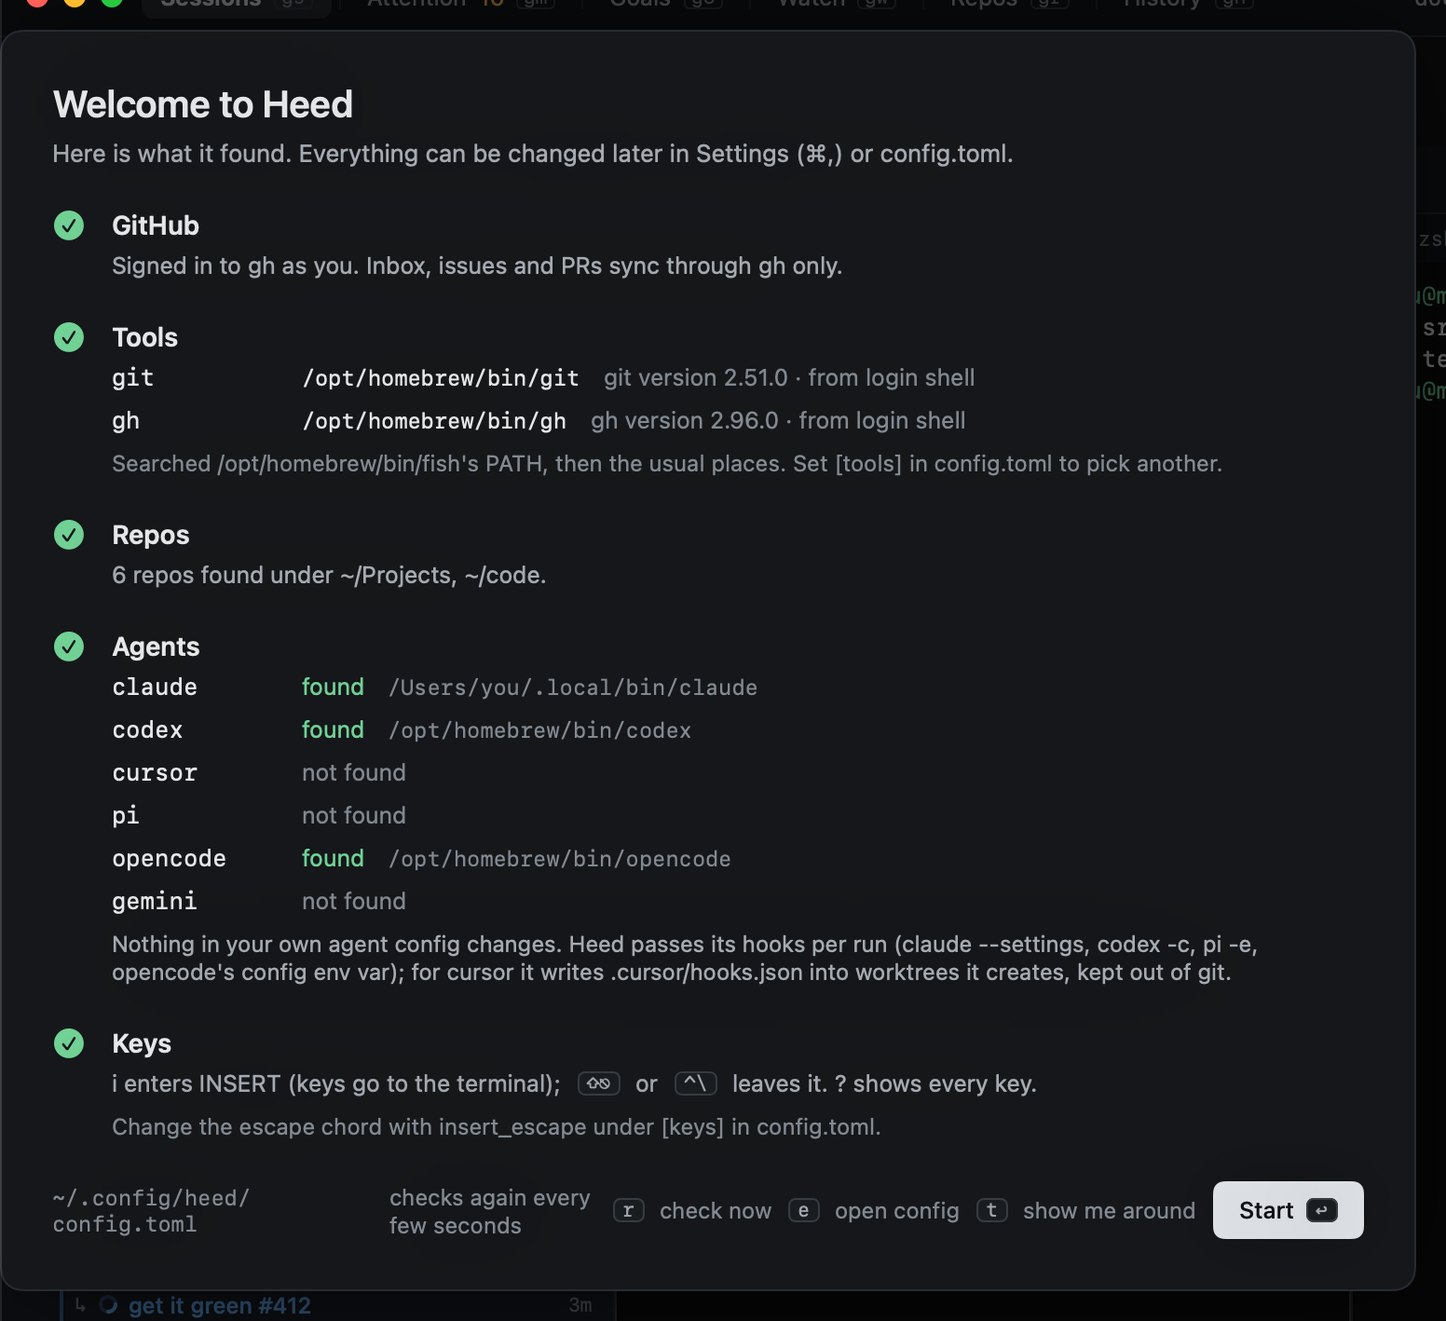
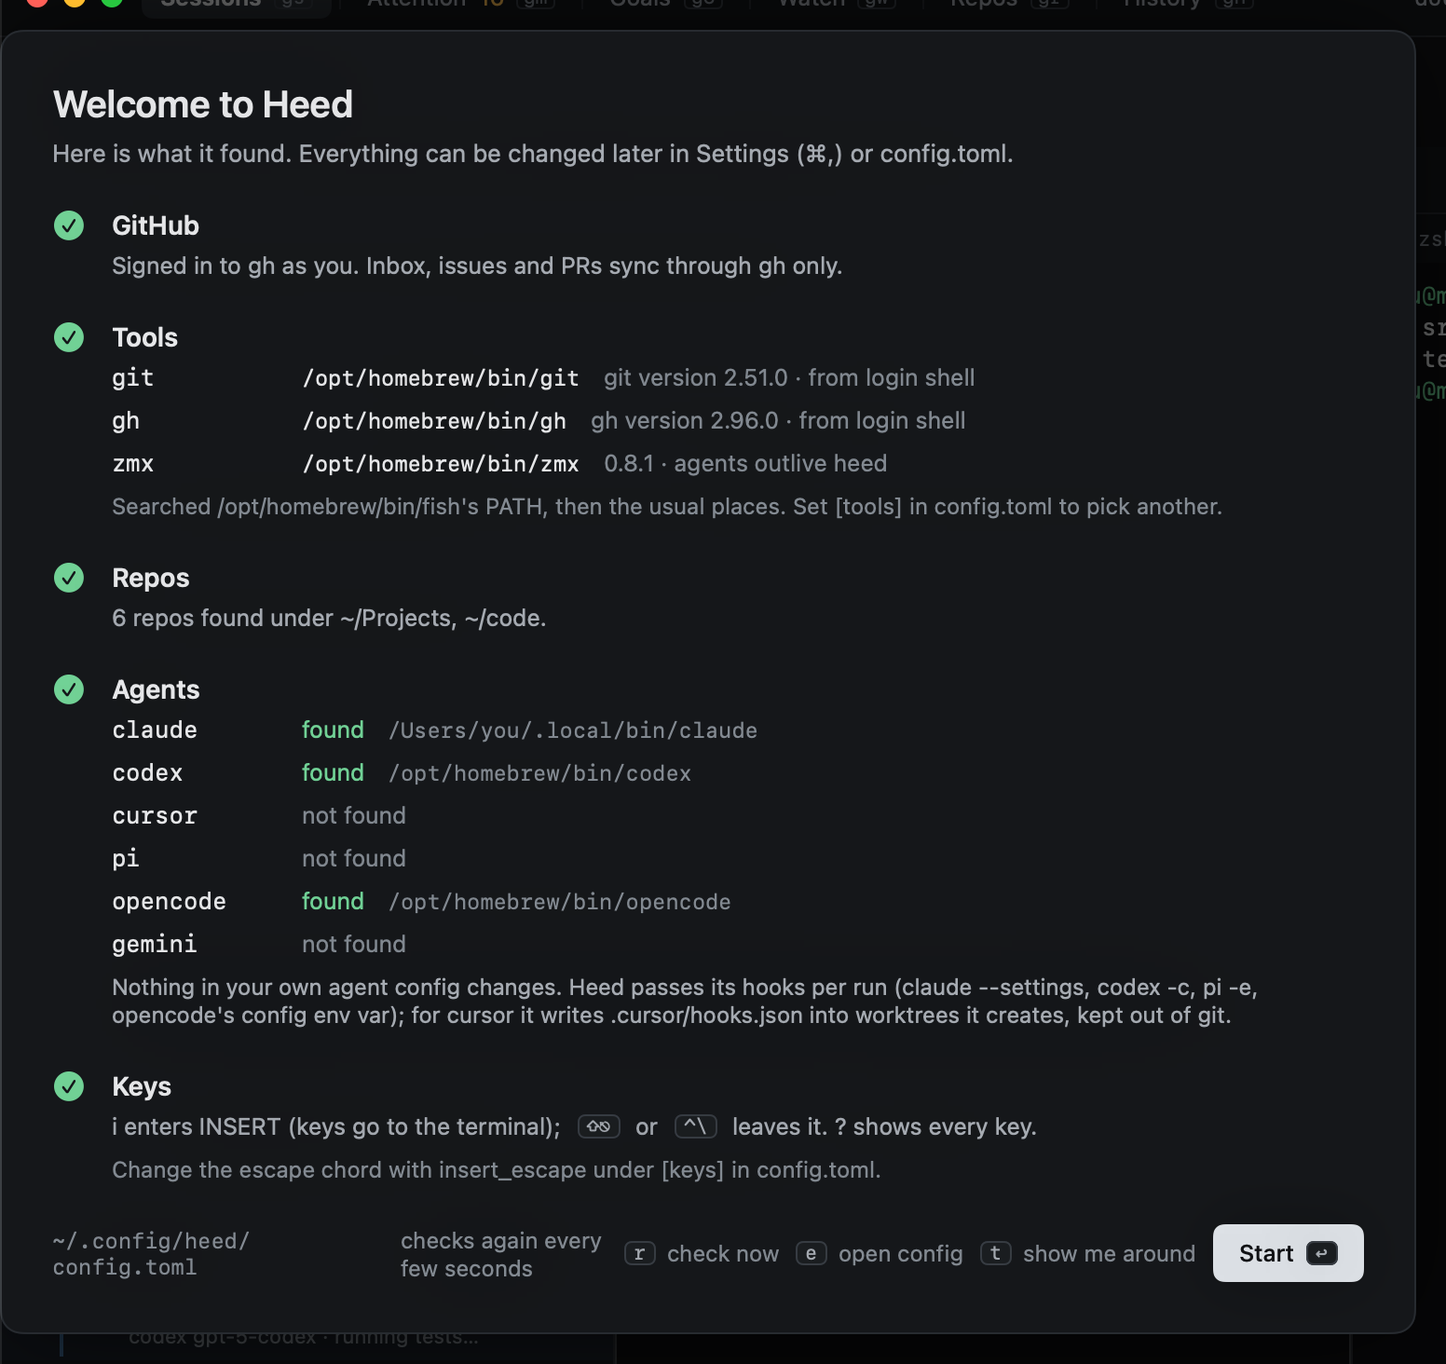
Fix papercuts found auditing the views (#226)
An audit of every view turned up small bugs and unfinished corners. This
fixes the ones that are plainly wrong; keys typed by hand in views
follow in a separate PR, and the overlap between views (Inbox, Issues,
Away, Map, the Goals overview) is a design question first.

## Fixed
- **Settings › Keys** said "Default: off" for both global shortcuts;
they default to ⌃⌥Space and ⌃⌥H. The default text now comes from
`HeedConfig.default`.
- **Watch**: the empty merge queue said "M on a PR adds it"; M is not
bound there. It names `pilot.merge`'s key (`zm`).
- **What's new**: the "Don't show what's new" switch was bound to a
constant `false`. It shows whether what's new is off, and flipping it
back turns it on.
- **Resume**: "1 sessions were open" → "1 session was open".
- **History**: the outcome chips looked like buttons and did nothing. A
click filters; `history.outcome` takes an outcome by name (`all`,
`merged`, `cleaned up`…), worked out in `Outcome.filter` with tests.
- **First run**: Start and the r / e / t labels take clicks, as every
other dialog's do. The Tools step lists zmx, marked optional.
- **Mindmap**: past four children the preview cut off and drew the
fourth as the last (`└`); it now ends with "└ N more".
- **Standup**, when off, links to its switch in Settings › History.
**Evaluations**, when empty, says how a walk starts and offers
`eval.rewalk`.
- **Call log**: `compact` was passed and never read; the caller column
[…]

diff --git a/Sources/HeedApp/Views/FirstRunView.swift b/Sources/HeedApp/Views/FirstRunView.swift
@@ -40,7 +40,7 @@ struct FirstRunView: View {
                 }
             }
             step("Tools", done: report.tools.map { $0.tools.allSatisfy { $0.path != nil } } ?? false) {
-                ToolsList(report: report.tools)
+                ToolsList(report: report.tools, zmx: model.zmxHealth)
             }
             step("Repos", done: !model.repos.isEmpty) {
                 Text(model.repos.isEmpty
@@ -94,12 +94,10 @@ struct FirstRunView: View {
                 Text(model.firstRunChecking ? "checking…" : "checks again every few seconds")
                     .font(Theme.ui(12))
                     .foregroundStyle(Theme.fg3)
-                KeyCap(text: "r")
-                Text("check now").font(Theme.ui(12)).foregroundStyle(Theme.fg3)
-                KeyCap(text: "e")
-                Text("open config").font(Theme.ui(12)).foregroundStyle(Theme.fg3)
-                KeyCap(text: "t")
-                Text("show me around").font(Theme.ui(12)).foregroundStyle(Theme.fg3)
+                // The dialog's own keys (not the keymap's); a click on one presses it.
+                action("r", "check now", help: "Check git, gh and the agents again")
+                action("e", "open config", help: "Open config.toml")
+                action("t", "show me around", help: "Start the tour")
                 HStack(spacing: 6) {
                     Text("Start").fontWeight(.medium)
                     KeyCap(text: "↩")
@@ -108,6 +106,10 @@ struct FirstRunView: View {
                 .padding(.horizontal, 14)
                 .padding(.vertical, 8)
                 .background(RoundedRectangle(cornerRadius: 6).fill(Theme.inverse))
+                .contentShape(Rectangle())
+                .onTapGesture { model.press([KeyStroke("CR")]) }
+                .pointerStyle(.link)
+                .help("Close this and start")
             }
             .font(Theme.ui(12.5))
         }
@@ -115,6 +117,16 @@ struct FirstRunView: View {
         .background(RoundedRectangle(cornerRadius: 12).fill(Theme.bg2))
         .overlay(RoundedRectangle(cornerRadius: 12).strokeBorder(Theme.line))
         .shadow(color: .black.opacity(0.5), radius: 30)
+    }
+
+    private func action(_ key: String, _ label: String, help: String) -> some View {
+        HStack(spacing: 6) {
+            KeyCap(text: key)
+            Text(label).font(Theme.ui(12)).foregroundStyle(Theme.fg3)
+        }
+        .clickable()
+        .onTapGesture { model.press([KeyStroke(key)]) }
+        .help(help)
     }
 
     private func step(_ title: String, done: Bool, @ViewBuilder content: () -> some View) -> some View {
@@ -133,6 +145,8 @@ struct FirstRunView: View {
 /// git and gh as detected: where, which version and why that one; shared by the first run and Settings.
 struct ToolsList: View {
     let report: ToolReport?
+    /// zmx as checked, for First run: optional, so missing it is no problem, only a pointer to what it adds.
+    var zmx: ZmxHealth??
 
     var body: some View {
         VStack(alignment: .leading, spacing: 8) {
@@ -156,6 +170,7 @@ struct ToolsList: View {
                             .fixedSize(horizontal: false, vertical: true)
                     }
                 }
+                if let zmx { zmxRow(zmx) }
                 Text(report.shellPath == nil
                     ? "\(Paths.abbreviate(report.shell)) did not report its PATH; searched the usual places instead."
                     :
@@ -167,5 +182,25 @@ struct ToolsList: View {
                 Text("Looking for git and gh…").foregroundStyle(Theme.fg3)
             }
         }
+    }
+
+    private func zmxRow(_ health: ZmxHealth?) -> some View {
+        HStack(spacing: 12) {
+            Text("zmx").font(Theme.mono(12.5)).frame(width: 90, alignment: .leading)
+            if let health, let path = health.path {
+                Text(Paths.abbreviate(path)).font(Theme.mono(11.5))
+                Text(health.works ? [health.version, "agents outlive heed"].compactMap(\.self).joined(separator: " · ")
+                    : health.problem ?? "does not work")
+                    .foregroundStyle(health.works ? Theme.fg3 : Theme.block)
+                    .lineLimit(1)
+            } else if health == nil {
+                Text("checking…").foregroundStyle(Theme.fg3)
+            } else {
+                Text("not found").foregroundStyle(Theme.fg3)
+                Text("optional: with it, agents keep running when heed quits").foregroundStyle(Theme.fg3)
+                    .lineLimit(1)
+            }
+        }
+        .font(Theme.ui(12.5))
     }
 }

diff --git a/Sources/HeedApp/Views/CallLogView.swift b/Sources/HeedApp/Views/CallLogView.swift
@@ -146,8 +146,11 @@ private struct CallRow: View {
                 .foregroundStyle(Theme.fg3)
                 .frame(width: 64, alignment: .leading)
             KindTag(call: call).frame(width: 58, alignment: .leading)
-            Text(call.caller).foregroundStyle(Theme.fg2).lineLimit(1).truncationMode(.tail)
-                .frame(width: 150, alignment: .leading)
+            // Narrow: the caller gives way, it is in the detail and `log.caller` filters on it.
+            if !compact {
+                Text(call.caller).foregroundStyle(Theme.fg2).lineLimit(1).truncationMode(.tail)
+                    .frame(width: 150, alignment: .leading)
+            }
             HStack(spacing: 6) {
                 if let host = call.host { HostChip(location: .host(host)).fixedSize() }
                 Text(CallLine.summary(call)).foregroundStyle(Theme.fg).lineLimit(1).truncationMode(.middle)
@@ -174,7 +177,7 @@ private struct KindTag: View {
     var body: some View {
         HStack(spacing: 3) {
             Text(call.kind.rawValue).foregroundStyle(color)
-            if call.write { Text("w").foregroundStyle(Theme.block) }
+            if call.write { Text("w").foregroundStyle(Theme.block).help("A write: it changed something on GitHub") }
         }
         .font(Theme.mono(11))
     }
@@ -229,12 +232,18 @@ private struct CallDetail: View {
                 if let host = call.host { HostChip(location: .host(host)) }
             }
             Text(call.operation ?? call.caller).font(Theme.ui(16, weight: .semibold))
-            block(call.command, tint: Theme.fg)
-            fields
-            if let stderr = call.stderr { output("stderr", stderr) }
-            if let stdout = call.stdout { output("stdout", stdout) }
-            ForEach(call.detail.sorted { $0.key < $1.key }, id: \.key) { key, value in
-                output(key, value)
+            // Long output scrolls; the keys below stay put.
+            ListScroll {
+                VStack(alignment: .leading, spacing: 14) {
+                    block(call.command, tint: Theme.fg)
+                    fields
+                    if let stderr = call.stderr { output("stderr", stderr) }
+                    if let stdout = call.stdout { output("stdout", stdout) }
+                    ForEach(call.detail.sorted { $0.key < $1.key }, id: \.key) { key, value in
+                        output(key, value)
+                    }
+                }
+                .frame(maxWidth: .infinity, alignment: .leading)
             }
             Spacer(minLength: 0)
             Theme.line.frame(height: 1)

diff --git a/Sources/HeedApp/Views/GoalReviewersView.swift b/Sources/HeedApp/Views/GoalReviewersView.swift
@@ -18,7 +18,7 @@ struct GoalReviewersPane: View {
                     ReviewerDetail(goal: goal, reviewer: reviewer, quality: quality)
                 } else {
                     Panel(title: "No reviewers yet", note: "") {
-                        Quieter("heed spawns one per lens the goal's profile requires once a model has read its "
+                        Quiet("heed spawns one per lens the goal's profile requires once a model has read its "
                             + "GOAL.md. Spawn one yourself on the right.")
                     }
                 }
@@ -175,7 +175,7 @@ private struct ReviewerDetail: View {
             }
             SectionHeader(title: "Objections")
             if objections.isEmpty {
-                Quieter(reviewer.score == nil ? "Nothing yet: it has not reviewed." : "None. It is happy.")
+                Quiet(reviewer.score == nil ? "Nothing yet: it has not reviewed." : "None. It is happy.")
             }
             VStack(spacing: 0) {
                 ForEach(Array(objections.enumerated()), id: \.element.id) { index, objection in
@@ -441,7 +441,7 @@ struct QualityBars: View {
     var body: some View {
         Panel(title: "Quality bars", note: quality.profile?.profile.text ?? "profile not decided yet") {
             if quality.lenses.isEmpty {
-                Quieter("No lens required yet.")
+                Quiet("No lens required yet.")
             }
             ForEach(quality.lenses, id: \.lens) { lens in
                 HStack(spacing: 10) {
@@ -499,7 +499,7 @@ struct HowHappy: View {
         let quality = model.goals.qualities[goal.id] ?? .empty
         Panel(title: "How happy are they", note: quality.live.isEmpty ? "" : "\(quality.live.count)") {
             if quality.live.isEmpty {
-                Quieter("No reviewers yet: they come with the goal's profile.")
+                Quiet("No reviewers yet: they come with the goal's profile.")
             }
             VStack(spacing: 8) {
                 ForEach(quality.live) { reviewer in
@@ -518,15 +518,5 @@ struct HowHappy: View {
                 KeyHint("review.recheck", scope: "goals", label: "re-check all")
             }
         }
-    }
-}
-
-private struct Quieter: View {
-    let text: String
-
-    init(_ text: String) { self.text = text }
-
-    var body: some View {
-        Text(text).font(Theme.ui(12)).foregroundStyle(Theme.fg3).fixedSize(horizontal: false, vertical: true)
     }
 }

diff --git a/Sources/HeedApp/Model/AppModel.swift b/Sources/HeedApp/Model/AppModel.swift
@@ -136,6 +136,8 @@ final class AppModel {
     var inferenceReminderHidden = false
     /// Screenshots show the setup reminder only where a shot asks for it.
     var inferenceReminderInShots = false
+    /// Swarm tasks a shot crops to, by slug: the shot says which, so views never name fixture data.
+    var shotTaskRegions: [String: ShotRegion] = [:]
     /// heed's own nudges (AppModel+Nudges): the one shown, the title bar pill hidden for this launch, what's new put
     /// off with Not now, and config.toml written this launch.
     var nudge: NudgeDialog?
@@ -2842,7 +2844,7 @@ final class AppModel {
         case "history.reopen": reopenSelected()
         case "history.again":
             openStartWork(prompt: selectedHistory?.session.prompt ?? "", chat: selectedHistory?.session.isChat == true)
-        case "history.outcome": cycleOutcome()
+        case "history.outcome": cycleOutcome(named: command.arguments)
         // :q in the tutor leaves the tutor, as its banner says; it never quits the app from there.
         case "app.quit": if tutor != nil { onTutorRequest?(.exit) } else { NSApp.terminate(nil) }
         case "config.edit": NSWorkspace.shared.open(configFile)
@@ -4327,10 +4329,8 @@ final class AppModel {
         return rows.indices.contains(historyCursor) ? rows[historyCursor] : nil
     }
 
-    private func cycleOutcome() {
-        let all: [Outcome?] = [nil] + Outcome.allCases
-        let index = all.firstIndex(of: historyOutcome) ?? 0
-        historyOutcome = all[(index + 1) % all.count]
+    private func cycleOutcome(named words: [String]) {
+        historyOutcome = Outcome.filter(after: historyOutcome, named: words)
         historyCursor = 0
     }
 

diff --git a/Tests/HeedCoreTests/OutcomeFilterTests.swift b/Tests/HeedCoreTests/OutcomeFilterTests.swift
@@ -1,0 +1,36 @@
+@testable import HeedCore
+import Testing
+
+/// `history.outcome`: the key cycles, a click on a chip names one.
+@Suite struct OutcomeFilterTests {
+    @Test func noWordsCyclesThroughEveryOutcomeAndBackToAll() {
+        var current: Outcome?
+        var seen: [Outcome?] = []
+        for _ in 0 ... Outcome.allCases.count {
+            current = Outcome.filter(after: current, named: [])
+            seen.append(current)
+        }
+        #expect(seen == Outcome.allCases.map(Optional.some) + [nil])
+    }
+
+    @Test func aNameSetsThatOutcomeWhateverWasOn() {
+        #expect(Outcome.filter(after: nil, named: ["merged"]) == .merged)
+        #expect(Outcome.filter(after: .closed, named: ["Merged"]) == .merged)
+        #expect(Outcome.filter(after: .merged, named: ["merged"]) == .merged)
+    }
+
+    @Test func allTakesTheFilterOff() {
+        #expect(Outcome.filter(after: .abandoned, named: ["all"]) == nil)
+    }
+
+    /// The chip passes the raw value with its space; typed on the `:` line it splits into two words.
+    @Test func cleanedUpIsFoundHoweverItIsWritten() {
+        for words in [["cleaned up"], ["cleaned", "up"], ["cleaned-up"], ["cleanedup"]] {
+            #expect(Outcome.filter(after: nil, named: words) == .cleanedUp, "\(words)")
+        }
+    }
+
+    @Test func aNameThatIsNoOutcomeKeepsTheFilter() {
+        #expect(Outcome.filter(after: .closed, named: ["nonsense"]) == .closed)
+    }
+}

diff --git a/Sources/HeedApp/Views/NudgeViews.swift b/Sources/HeedApp/Views/NudgeViews.swift
@@ -76,11 +76,14 @@ private struct WhatsNewDialog: View {
             }
             NudgeGapsLink().padding(.top, 14)
         } footer: {
-            Toggle("Don't show what's new", isOn: Binding(get: { false }, set: { if $0 { model.turnOffWhatsNew() } }))
-                .toggleStyle(.switch).controlSize(.mini).tint(Theme.done)
-                .font(Theme.ui(12)).foregroundStyle(Theme.fg3)
-                .fixedSize()
-                .help("[nudges] whats_new = false; :whatsnew.show still opens it")
+            Toggle("Don't show what's new", isOn: Binding(
+                get: { !model.config.nudges.whatsNew },
+                set: { $0 ? model.turnOffWhatsNew() : model.turnOnWhatsNew() }
+            ))
+            .toggleStyle(.switch).controlSize(.mini).tint(Theme.done)
+            .font(Theme.ui(12)).foregroundStyle(Theme.fg3)
+            .fixedSize()
+            .help("[nudges] whats_new = false; :whatsnew.show still opens it")
             Spacer(minLength: 12)
             NudgeButton(title: "Not now", key: "⎋", help: "Close; it shows again at the next launch") {
                 model.closeNudge(seen: false)

diff --git a/Sources/HeedApp/Views/MindmapView.swift b/Sources/HeedApp/Views/MindmapView.swift
@@ -172,9 +172,14 @@ private struct MindmapCard: View {
             }
             if style == .inside, depth > 0 {
                 let kids = tree.children(of: node.id)
-                ForEach(Array(kids.prefix(4).enumerated()), id: \.element.id) { index, kid in
-                    Text((index == min(kids.count, 4) - 1 ? "└ " : "├ ") + kid.title)
+                // Four at most; past that the last line counts the rest, so the └ is always the real end.
+                let shown = kids.count > 4 ? 3 : kids.count
+                ForEach(Array(kids.prefix(shown).enumerated()), id: \.element.id) { index, kid in
+                    Text((index == shown - 1 && kids.count == shown ? "└ " : "├ ") + kid.title)
                         .font(Theme.mono(11)).foregroundStyle(Theme.fg3).lineLimit(1)
+                }
+                if kids.count > shown {
+                    Text("└ \(kids.count - shown) more").font(Theme.mono(11)).foregroundStyle(Theme.fg3)
                 }
                 if kids.count > 4 { Text("+\(kids.count - 4) more").font(Theme.mono(11)).foregroundStyle(Theme.fg3) }
             }

diff --git a/Sources/HeedApp/Views/Settings/MachinePages.swift b/Sources/HeedApp/Views/Settings/MachinePages.swift
@@ -107,13 +107,18 @@ struct KeysPage: View {
             note: "They work from any app. One key with ⌃, ⌥ or ⌘; Record takes the next one you press, ⎋ cancels. "
                 + "Empty turns one off."
         ) {
-            SettingRow("keys.global_start_work", defaultText: "off", stacked: true) {
+            SettingRow(
+                "keys.global_start_work", defaultText: KeyCapText.of(HeedConfig.default.globalStartWork),
+                stacked: true
+            ) {
                 ShortcutField(
                     path: ["keys", "global_start_work"], value: model.config.globalStartWork,
                     other: model.config.globalActivate
                 )
             }
-            SettingRow("keys.global_activate", defaultText: "off", stacked: true) {
+            SettingRow(
+                "keys.global_activate", defaultText: KeyCapText.of(HeedConfig.default.globalActivate), stacked: true
+            ) {
                 ShortcutField(
                     path: ["keys", "global_activate"], value: model.config.globalActivate,
                     other: model.config.globalStartWork

diff --git a/Sources/HeedCore/Sessions/Session.swift b/Sources/HeedCore/Sessions/Session.swift
@@ -545,6 +545,19 @@ public enum Outcome: String, Hashable, Sendable, Codable, CaseIterable {
     case cleanedUp = "cleaned up"
     /// A chat that became work (`chat.promote`): its timeline names the session it became.
     case promoted
+
+    /// History's outcome filter after `history.outcome`: the next one after `current` (nil is All), or the one `words`
+    /// name (`all` is All; `cleaned up`, `cleaned-up` and `cleanedup` the same). A name that is none keeps `current`.
+    public static func filter(after current: Outcome?, named words: [String]) -> Outcome? {
+        guard !words.isEmpty else {
+            let all: [Outcome?] = [nil] + allCases
+            let index = all.firstIndex(of: current) ?? 0
+            return all[(index + 1) % all.count]
+        }
+        let key = words.joined().lowercased().filter(\.isLetter)
+        if key == "all" { return nil }
+        return allCases.first { $0.rawValue.filter(\.isLetter) == key } ?? current
+    }
 }
 
 /// A session that is no longer active: kept for search, reopening and starting again from its prompt.

diff --git a/Sources/HeedApp/Shots/Shots.swift b/Sources/HeedApp/Shots/Shots.swift
@@ -639,6 +639,7 @@ enum Shots {
         Shot(id: "goals/swarm-running", keys: "gGjS", prepare: { $0.loadRunningSwarmFixture(.running) }),
         Shot(id: "goals/swarm-stacked", keys: "gGjS", crop: .swarmTask, cropPadding: 8, prepare: {
             $0.loadRunningSwarmFixture(.running)
+            $0.shotTaskRegions = ["validator-speed": .swarmTask]
         }),
         Shot(id: "goals/swarm-goal-running", keys: "gGj", crop: .goalSwarm, cropPadding: 8, prepare: {
             $0.loadRunningSwarmFixture(.running)
@@ -657,6 +658,7 @@ enum Shots {
         }),
         Shot(id: "goals/swarm-held", keys: "gGjS", crop: .swarmHeld, cropPadding: 8, prepare: {
             $0.loadRunningSwarmFixture(.landing)
+            $0.shotTaskRegions = ["sample-site": .swarmHeld]
         }),
         // m: the outline itself in merge order.
         Shot(id: "goals/swarm-merge-order", keys: "gGjSm", crop: .swarmOutline, cropPadding: 8, prepare: {

diff --git a/Sources/HeedApp/Views/GoalEvaluationsView.swift b/Sources/HeedApp/Views/GoalEvaluationsView.swift
@@ -16,7 +16,13 @@ struct GoalEvaluationsPane: View {
                 if let evaluation {
                     EvaluatorCard(evaluation: evaluation)
                 } else {
-                    Panel(title: "No evaluations", note: "") { Quiet("This goal has no quality record yet.") }
+                    Panel(title: "No evaluations", note: "") {
+                        VStack(alignment: .leading, spacing: 10) {
+                            Quiet("No stranger has walked this goal yet. Its required lenses walk with its reviewers; "
+                                + "pick a lens on the right to walk it now.")
+                            KeyHint("eval.rewalk", scope: "goalevals", label: "walk the lens picked now")
+                        }
+                    }
                 }
             }
             .frame(width: 360)

diff --git a/Sources/HeedCore/Keys/Commands.swift b/Sources/HeedCore/Keys/Commands.swift
@@ -321,7 +321,10 @@ public enum Commands {
         .init("select.toggle", "toggle row", .selection),
         .init("history.reopen", "reopen: resume, recreating the worktree if needed", .selection),
         .init("history.again", "start a new session from this prompt", .selection),
-        .init("history.outcome", "cycle the outcome filter", .selection),
+        .init(
+            "history.outcome", "history: the next outcome filter, or one by name (all, merged, …)", .selection,
+            arguments: "[outcome]"
+        ),
         .init("history.list", "History's list of the sessions that ended", .views),
         .init("history.timeline", "History as a timeline: what happened, by day (again: back to the list)", .views),
         .init(
